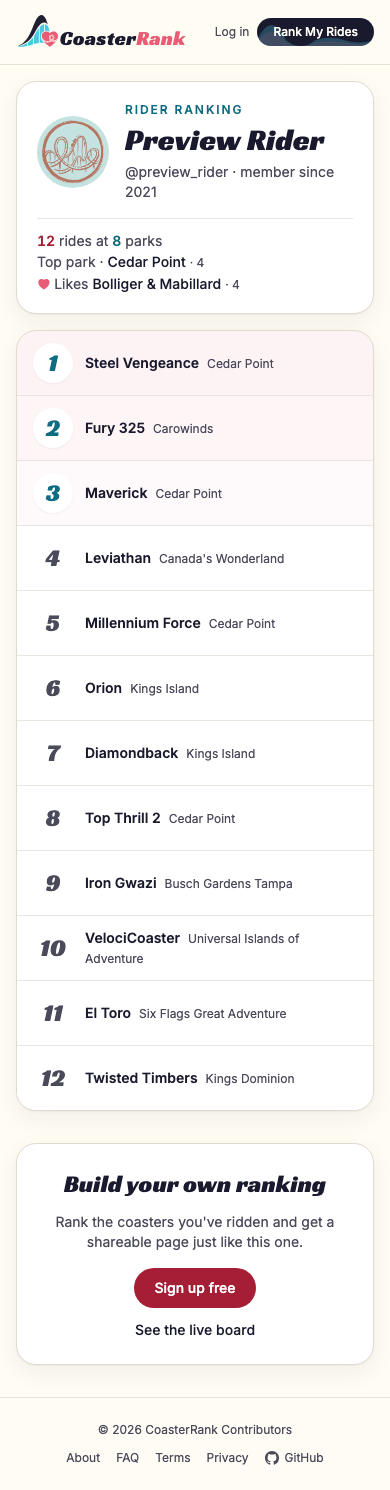
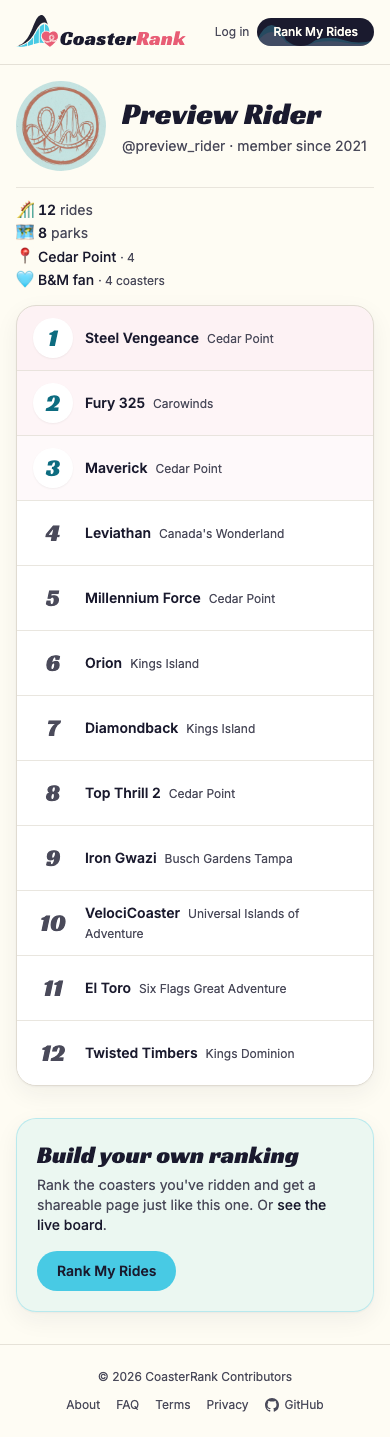
feat: rider share hero v2 — no card, emoji stats, accent CTA

diff --git a/app/src/pages/RiderPage.tsx b/app/src/pages/RiderPage.tsx
@@ -4,6 +4,7 @@ import Avatar from '../components/ui/Avatar'
 import RiderRideList from '../components/RiderRideList'
 import { MessageState, Panel } from '../components/ui'
 import { useAuth } from '../lib/auth-context'
+import { MANUFACTURER_ABBREVIATIONS } from '../lib/abbreviations'
 import { manufacturerSpotlight, topSpotlight } from '../lib/og-svg'
 import { riderPageUrl, useRiderPage, isValidRiderUsername } from '../lib/rider'
 import { truncate } from '../lib/truncate'
@@ -84,6 +85,10 @@ export default function RiderPage() {
   // "#1 pick" stat; the ranked table right below already shows it.
   const topPark = topSpotlight(rides, 'park_name')
   const topBuilder = manufacturerSpotlight(rides, 10)
+  // Enthusiast-short builder name for the "X fan" line (B&M, RMC, GCI, CCI);
+  // the full name stays on the title attribute, same contract as the board.
+  const builderName = topBuilder?.name ?? null
+  const builderAbbr = builderName ? (MANUFACTURER_ABBREVIATIONS[builderName] ?? builderName) : null
   const topNames = rides.slice(0, 3).map((r) => truncate(r.name, 40))
   const parkCount = new Set(rides.map((r) => r.park_name).filter(Boolean)).size
   const memberSince = yearOf(profile.member_since)
@@ -114,23 +119,19 @@ export default function RiderPage() {
         <meta name="twitter:image" content={ogImage} />
       </Helmet>
 
-      {/* Hero — identity on the left, the three summary stats tucked into
-          the header's right-hand gap (one line each: volume, top park,
-          builder preference) so a top-10 screenshot stays tight with no
-          separate stats row. Stacks below the identity on mobile. */}
-      <Panel className="flex flex-col gap-4 p-5 sm:flex-row sm:items-center sm:p-6">
+      {/* Hero — bare identity + a four-line stats stack (no card chrome, no
+          eyebrow): the name leads, emoji-led stats tuck into the right-hand
+          gap. Stacks below the identity on mobile. */}
+      <div className="flex flex-col gap-4 sm:flex-row sm:items-center">
         <div className="flex min-w-0 flex-1 items-center gap-4 sm:gap-5">
           <Avatar
             src={profile.avatar_url}
             userId={profile.username}
-            size={72}
+            size={90}
             className="shrink-0"
           />
           <div className="min-w-0">
-            <p className="text-xs font-semibold uppercase tracking-[0.16em] text-accent-text">
-              Rider ranking
-            </p>
-            <h1 className="display-heading mt-1 truncate text-3xl text-ink sm:text-4xl">
+            <h1 className="display-heading truncate text-3xl text-ink sm:text-4xl">
               {displayName}
             </h1>
             <p className="mt-1 text-sm text-muted">
@@ -139,40 +140,43 @@ export default function RiderPage() {
             </p>
           </div>
         </div>
-        <div className="min-w-0 space-y-0.5 border-t border-line/70 pt-3 text-sm leading-snug sm:w-60 sm:shrink-0 sm:border-l sm:border-t-0 sm:pl-5 sm:pt-0">
-          <p className="truncate" data-testid="rider-stats-volume">
-            <span className="font-semibold tabular-nums text-coral-text">{rides.length}</span>{' '}
-            <span className="text-muted">{rides.length === 1 ? 'ride' : 'rides'} at </span>
-            <span className="font-semibold tabular-nums text-accent-text">{parkCount}</span>{' '}
+        <div className="min-w-0 space-y-1 border-t border-line/70 pt-3 text-sm leading-snug sm:w-60 sm:shrink-0 sm:border-l sm:border-t-0 sm:pl-5 sm:pt-0">
+          <p className="truncate" data-testid="rider-stats-rides">
+            <span aria-hidden="true">🎢 </span>
+            <span className="font-semibold tabular-nums text-ink">{rides.length}</span>{' '}
+            <span className="text-muted">{rides.length === 1 ? 'ride' : 'rides'}</span>
+          </p>
+          <p className="truncate" data-testid="rider-stats-parks">
+            <span aria-hidden="true">🗺 </span>
+            <span className="font-semibold tabular-nums text-ink">{parkCount}</span>{' '}
             <span className="text-muted">{parkCount === 1 ? 'park' : 'parks'}</span>
           </p>
           {topPark && (
             <p
               className="truncate"
               data-testid="rider-stats-top-park"
-              title={`Top park: ${topPark.name} (${topPark.count} ridden)`}
+              title={`Top park: ${topPark.name} (${topPark.count} rides)`}
             >
-              <span className="text-muted">Top park · </span>
+              <span aria-hidden="true">📍 </span>
               <span className="font-medium text-ink">{topPark.name}</span>{' '}
               <span className="text-xs tabular-nums text-muted">· {topPark.count}</span>
             </p>
           )}
-          {topBuilder && (
+          {topBuilder && builderName && builderAbbr && (
             <p
               className="truncate"
               data-testid="rider-stats-top-builder"
-              title={`Likes ${topBuilder.name} (${topBuilder.count} in top 10)`}
+              title={`${builderName} (${topBuilder.count} of top 10)`}
             >
-              <span aria-hidden="true" className="font-semibold text-coral">
-                ♥{' '}
+              <span aria-hidden="true">🩵 </span>
+              <span className="font-medium text-ink">{builderAbbr} fan</span>{' '}
+              <span className="text-xs tabular-nums text-muted">
+                · {topBuilder.count} {topBuilder.count === 1 ? 'coaster' : 'coasters'}
               </span>
-              <span className="text-muted">Likes </span>
-              <span className="font-medium text-ink">{topBuilder.name}</span>{' '}
-              <span className="text-xs tabular-nums text-muted">· {topBuilder.count}</span>
             </p>
           )}
         </div>
-      </Panel>
+      </div>
 
       {/* The list sits right under the hero now that the stats live inside
           it — mt-4 keeps the top 10 tight for screenshots. */}
@@ -187,23 +191,31 @@ export default function RiderPage() {
       </div>
 
       {/* Growth loop: every shared visit is a signup opportunity — but only
-          pitch it to visitors who can actually sign up. */}
+          pitch it to visitors who can actually sign up. Accent-tinted card
+          (same treatment as the coaster detail top card — plain div, not
+          Panel, so the tint wins), two columns with the button standing
+          alone on the right to save vertical space. */}
       {!user && (
-        <Panel className="mt-8 flex flex-col items-center gap-3 p-6 text-center">
-          <h2 className="display-heading text-2xl text-ink">Build your own ranking</h2>
-          <p className="max-w-md text-sm text-muted">
-            Rank the coasters you&apos;ve ridden and get a shareable page just like this one.
-          </p>
-          <Link
-            to="/signup"
-            className="mt-1 rounded-full bg-coral-text px-5 py-2.5 text-sm font-medium text-white transition-colors hover:bg-coral-text/90"
-          >
-            Sign up free
-          </Link>
-          <Link to="/" className="text-sm font-medium text-ink underline-offset-4 hover:underline">
-            See the live board
-          </Link>
-        </Panel>
+        <div className="mt-8 rounded-xl border border-accent/30 bg-accent/10 p-5 shadow-panel sm:p-6">
+          <div className="flex flex-col gap-4 sm:flex-row sm:items-center sm:justify-between">
+            <div className="min-w-0">
+              <h2 className="display-heading text-2xl text-ink">Build your own ranking</h2>
+              <p className="mt-1 max-w-md text-sm text-muted">
+                Rank the coasters you&apos;ve ridden and get a shareable page just like this one. Or{' '}
+                <Link to="/" className="font-medium text-ink underline-offset-4 hover:underline">
+                  see the live board
+                </Link>
+                .
+              </p>
+            </div>
+            <Link
+              to="/signup"
+              className="inline-flex shrink-0 items-center justify-center self-start rounded-full bg-accent px-5 py-2.5 text-sm font-semibold text-ink transition-colors hover:bg-accent-strong sm:self-center"
+            >
+              Rank My Rides
+            </Link>
+          </div>
+        </div>
       )}
     </div>
   )

diff --git a/app/src/pages/RiderPage.test.tsx b/app/src/pages/RiderPage.test.tsx
@@ -122,20 +122,29 @@ describe('RiderPage', () => {
     expect(screen.getByText('Coaster Fan')).toBeInTheDocument()
     expect(screen.getByText(/@coaster_fan/)).toBeInTheDocument()
     expect(screen.getByText(/member since 2024/)).toBeInTheDocument()
-    // Stats live in the hero's right-hand stack (one line each: volume, top
-    // park, builder preference) — no separate stats row. Spotlights mirror
-    // the OG card (top park across all rides, top builder from the top 10);
-    // "#1 pick" is gone — the table right below already shows it.
+    // No eyebrow, no card chrome: the name leads, emoji-led stats stack to
+    // the side. Spotlights mirror the OG card (top park across all rides,
+    // top builder from the top 10); "#1 pick" is gone — the table right
+    // below already shows the top-ranked coaster.
+    expect(screen.queryByText('Rider ranking')).not.toBeInTheDocument()
     expect(screen.getByText('Steel Vengeance')).toBeInTheDocument()
     expect(screen.getByText('Fury 325')).toBeInTheDocument()
-    // Cedar Point appears in both the Top park line and the ride list.
+    // Cedar Point appears in both the top-park line and the ride list.
     expect(screen.getAllByText('Cedar Point').length).toBeGreaterThan(1)
-    expect(screen.getByTestId('rider-stats-volume')).toHaveTextContent('2 rides at 2 parks')
-    expect(screen.getByTestId('rider-stats-top-park')).toHaveTextContent('Top park')
-    expect(screen.getByTestId('rider-stats-top-builder')).toHaveTextContent('Likes')
-    expect(screen.getByText('Rocky Mountain Construction')).toBeInTheDocument()
+    expect(screen.getByTestId('rider-stats-rides')).toHaveTextContent('2 rides')
+    expect(screen.getByTestId('rider-stats-parks')).toHaveTextContent('2 parks')
+    expect(screen.getByTestId('rider-stats-top-park')).toHaveTextContent('Cedar Point')
+    // Enthusiast-short builder name (RMC), full name on the title attribute.
+    expect(screen.getByTestId('rider-stats-top-builder')).toHaveTextContent('RMC fan')
+    expect(screen.getByTestId('rider-stats-top-builder')).toHaveTextContent('1 coaster')
+    expect(screen.getByTestId('rider-stats-top-builder')).toHaveAttribute(
+      'title',
+      'Rocky Mountain Construction (1 of top 10)',
+    )
     expect(screen.queryByText('#1 pick')).not.toBeInTheDocument()
     expect(screen.getByText('Build your own ranking')).toBeInTheDocument()
+    expect(screen.getByRole('link', { name: 'Rank My Rides' })).toHaveAttribute('href', '/signup')
+    expect(screen.queryByText('Sign up free')).not.toBeInTheDocument()
   })
 
   it('hides the signup CTA for logged-in users', () => {
@@ -151,7 +160,7 @@ describe('RiderPage', () => {
     })
 
     expect(screen.queryByText('Build your own ranking')).not.toBeInTheDocument()
-    expect(screen.queryByText('Sign up free')).not.toBeInTheDocument()
+    expect(screen.queryByRole('link', { name: 'Rank My Rides' })).not.toBeInTheDocument()
   })
 
   it('sets human-facing title and meta description via helmet', async () => {
@@ -254,9 +263,10 @@ describe('RiderPage', () => {
     renderAt()
 
     expect(screen.getByText('No coasters ranked yet.')).toBeInTheDocument()
-    // With no rides the hero shows just the volume line; the park/builder
-    // lines are omitted (no em-dash placeholders).
-    expect(screen.getByTestId('rider-stats-volume')).toHaveTextContent('0 rides at 0 parks')
+    // With no rides the hero shows just the rides/parks lines; the
+    // park/builder lines are omitted (no em-dash placeholders).
+    expect(screen.getByTestId('rider-stats-rides')).toHaveTextContent('0 rides')
+    expect(screen.getByTestId('rider-stats-parks')).toHaveTextContent('0 parks')
     expect(screen.queryByTestId('rider-stats-top-park')).not.toBeInTheDocument()
     expect(screen.queryByTestId('rider-stats-top-builder')).not.toBeInTheDocument()
   })

diff --git a/scripts/src/e2e/scenarios/previews-rider-share-compact.ts b/scripts/src/e2e/scenarios/previews-rider-share-compact.ts
@@ -178,7 +178,7 @@ async function main(): Promise<void> {
         })
         await page.goto('http://localhost:5199/riders/preview_rider')
         await waitForVisible(page, 'main')
-        await waitForVisible(page, '[data-testid="rider-stats-volume"]')
+        await waitForVisible(page, '[data-testid="rider-stats-rides"]')
         await waitForVisible(page, 'text=Build your own ranking')
         console.log(`[${SLUG}/rider-page-${kind}] prodReads:`, JSON.stringify(handle.prodReads()))
         return page

diff --git a/docs/previews/rider-share-compact/README.md b/docs/previews/rider-share-compact/README.md
@@ -1,17 +1,22 @@
 # Rider share compact-hero previews
 
-Captured 2026-09-14 against the PR build at localhost:5199.
+Captured 2026-09-14 against the PR build at localhost:5199 (recaptured after
+the no-card / emoji-stats / accent-CTA revision).
 
 ## What's shown
 
-| File                     | Shows                                                                                                                                                                 |
-| ------------------------ | --------------------------------------------------------------------------------------------------------------------------------------------------------------------- |
-| `rider-page-desktop.png` | Full share page, desktop: hero with identity left + three-line stats stack right (12 rides at 8 parks, Top park, ♥ Likes builder), 12-row list, logged-out signup CTA |
-| `rider-page-mobile.png`  | Same page, mobile 390px: stats stack below the identity under a hairline rule                                                                                         |
+| File                     | Shows                                                                                                                                                                                                                               |
+| ------------------------ | ----------------------------------------------------------------------------------------------------------------------------------------------------------------------------------------------------------------------------------- |
+| `rider-page-desktop.png` | Full share page, desktop: bare hero (no card, no eyebrow, 90px avatar) + four-line emoji stats stack (🎢 rides, 🗺 parks, 📍 top park, 🩵 "B&M fan"), 12-row list, accent-tinted two-column CTA with the Rank My Rides button right |
+| `rider-page-mobile.png`  | Same page, mobile 390px: stats stack below the identity under a hairline rule, CTA stacks with the button below the copy                                                                                                            |
 
 ## How the state was faked
 
 Tier 2 (no session + `mockSupabase`): only the `public_rider_page` RPC is
 mocked with a 12-ride / 8-park fixture (top park Cedar Point ×4; top builder
-Bolliger & Mabillard via the preference score-tiebreak over Intamin).
+Bolliger & Mabillard via the preference score-tiebreak over Intamin, shown
+abbreviated as "B&M fan · 4 coasters").
 Prod contact: none (`prodReads: []`). Capture is console-error clean.
+
+Note: emoji in these shots render monochrome (headless-Chromium font
+fallback) — real browsers show the color glyphs.
